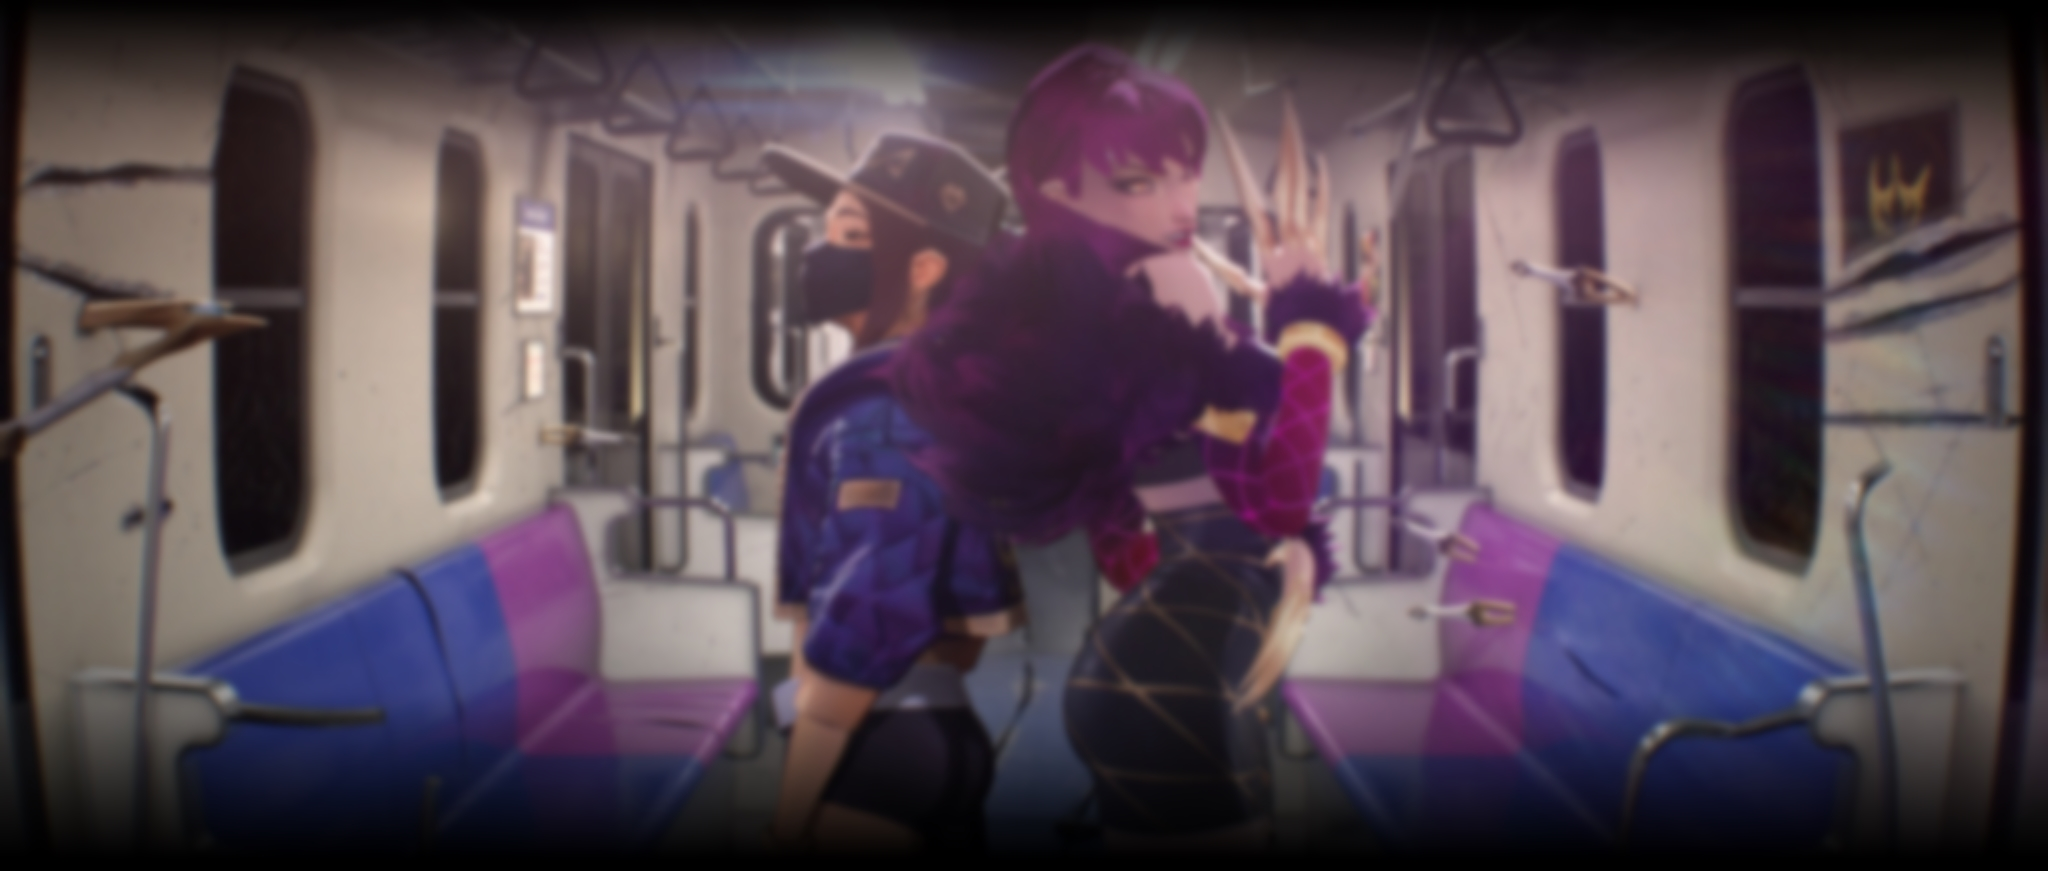
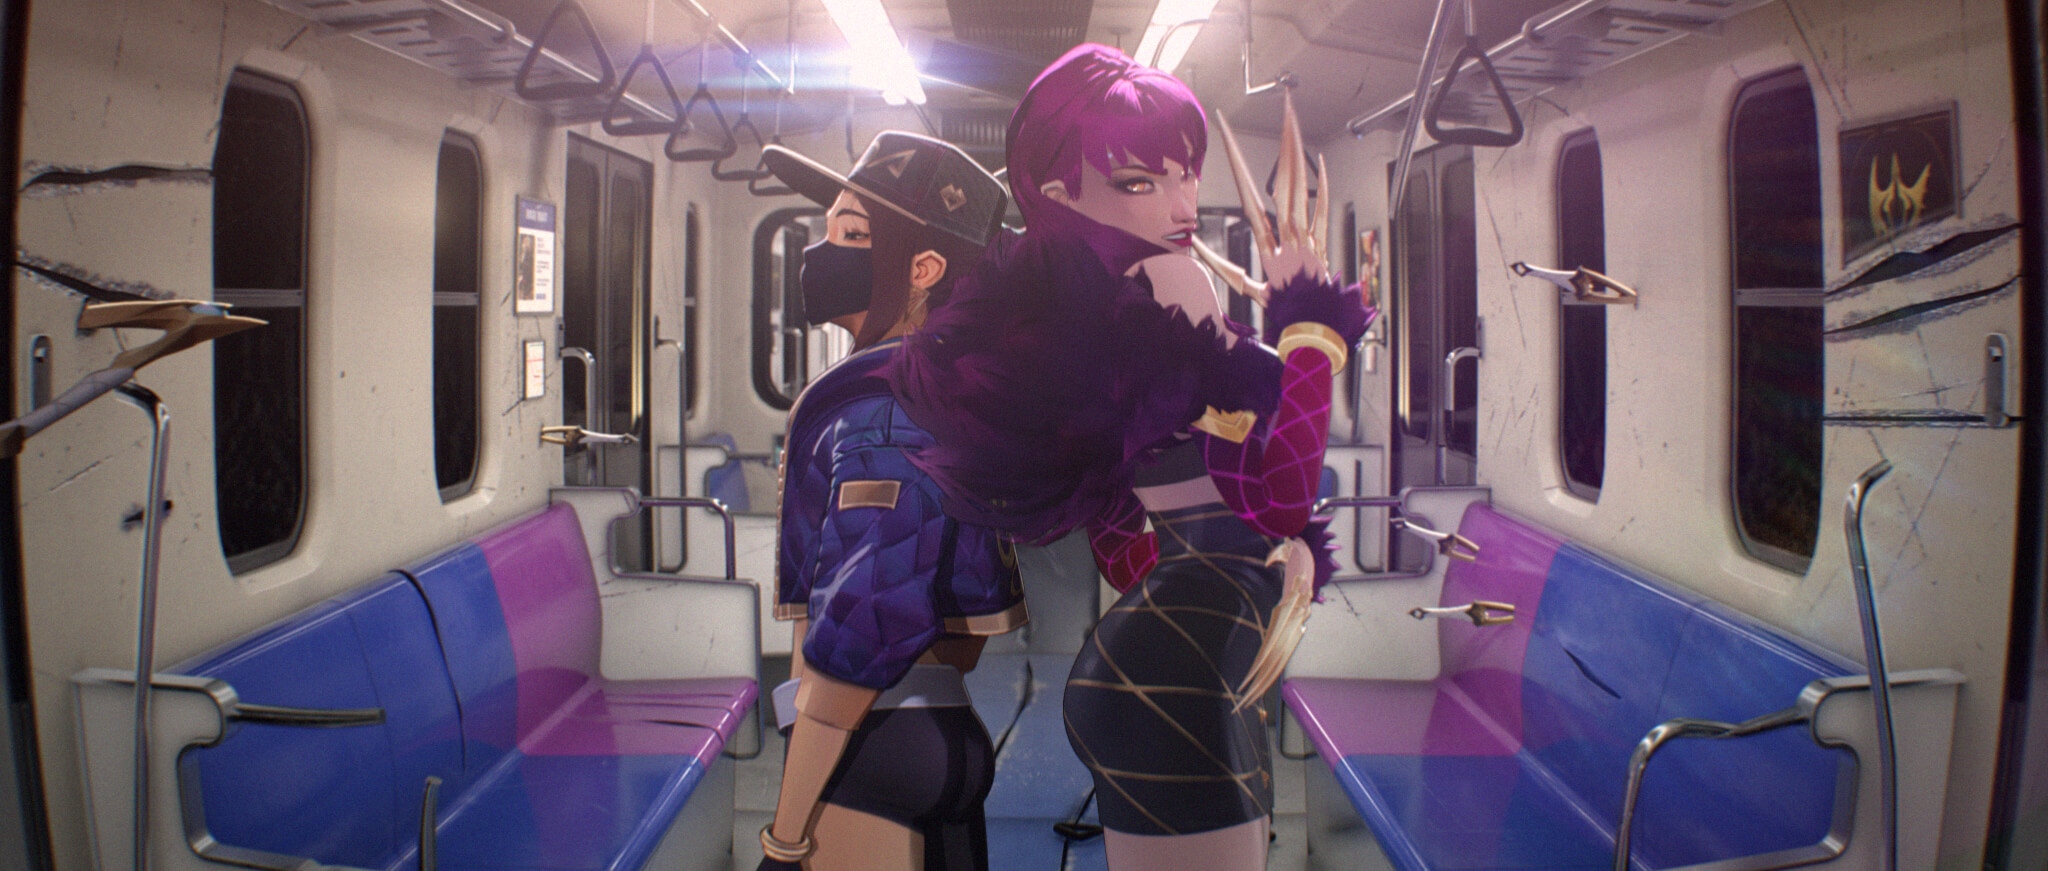
Style changes
Style
	-Made background image for quote sections more "modular", which means I can change apply affects to them dynamically, including changing the gradient fadeout in top and bottom to whatever color the background happens to have
	-Added more blur and darkened the image in quote sections to facilitate reading of text on top of it.
	-Adjusted font sizes from text in quote sections
	-Added outline to text in quote sections

Text
	-Removed quotation signs from Ahri's quote section
	-Adjusted text in Akali's section

diff --git a/styles/main.css b/styles/main.css
@@ -1,19 +1,21 @@
 @import url(https://lolstatic-a.akamaihd.net/awesomefonts/1.0.0/lol-fonts.css);
 
-body {
-
+:root {
+    --bg-color: #1a1d21;
 }
 
 body{
     font-family: Beaufort for LOL,serif;
     letter-spacing: .03em;
     color: #f0e6d2;
-    background-color: black;
+    background-color: var(--bg-color);
+    margin: 0;
 }
 body > *{
     background-color: transparent;
     font-weight: 500;
     font-size: 22px;
+    margin: 0;
 }
 
 * {
@@ -73,26 +75,71 @@ p {
 }
 
 .quoteimg{
-    max-width: initial; 
-    width:100%; 
+    object-fit: cover;
+    width: 100%;
+    height: 100%;
+    z-index: -2;
+    position: absolute;
+    filter: brightness(70%) blur(2px);
+    
+}
+
+.quoteSection{
+    padding: 0;
     height:60vw;
-    background-size: cover; 
-    position:relative; 
-    background-position: center center;
-    padding: 0 0 0 0;
+    position:relative;
+    max-width: 100%;
+    width: 100%;
+    overflow: hidden;
+}
+
+
+/*Adds the little fading black gradients at bottom and top*/
+/*The div is only rendered if it has "content" so we give it a fake one hehe*/
+
+:root{
+    --bar-size:calc(100%/4);
+}
+
+/*Bottom one*/
+.quoteSection::after{
+    background-image:linear-gradient(transparent, var(--bg-color));
+    position: absolute;
+    width: 100%;
+    height: var(--bar-size);
+    bottom: 0px;
+    z-index: -1;
+    
+    content: " "
+}
+/*Top one*/
+.quoteSection::before{
+    background-image:linear-gradient(var(--bg-color), transparent);
+    position: absolute;
+    width: 100%;
+    height: var(--bar-size);
+    z-index: -1;
+    
+    content: " "
 }
 
 .quotetext{
     text-indent: 0px;
     text-align: center;
-    padding-top: 20vw;
+    padding-top: 16vw;
     margin-bottom: 10px;
     font-size:6vw;
     color: #e79c62;
     font-weight: 700;
-    text-shadow:2px 2px 0 #444;
+    /*text-shadow:2px 2px 0 #444;*/
     padding-left:30px;
     padding-right:30px;
+    color: white;
+    text-shadow:
+    -1px -1px 0 #000,
+    1px -1px 0 #000,
+    -1px 1px 0 #000,
+    1px 1px 0 #000; 
 }
 .quotesource{
     text-align:center;
@@ -100,9 +147,15 @@ p {
     font-size: 2vw;
     text-shadow:2px 2px 0 #444;
 }
-.ahritext{
-    background: -webkit-linear-gradient( #CC46BB, #d87aca);
+
+.quoteSection.ahri> p.quotetext{
+    color: #e1d291;
+}
+
+.ahritext2{
+    /*background: -webkit-linear-gradient( #CC46BB, #e275d2);
     -webkit-background-clip: text;
     -webkit-text-fill-color: transparent;
-    text-shadow: initial;
+    text-shadow: none;*/
+    color: #e275d2;
 }

diff --git a/index.html b/index.html
@@ -16,7 +16,7 @@
 <body>
 <main>
 <article style="margin-top: 0px;">
-<section style="width: 100vw; margin-top: 0px; padding-left:0px; padding-right:0px;">
+<section class="logotop" style="width: 100vw; margin-top: 0px; padding-left:0px; padding-right:0px; max-width: 100%">
     <template>
         <div style="background-image:url('img/bg1.jpg');  background-size: cover; position: absolute; width: 100vw" class="bgimg">
     </template>
@@ -70,10 +70,11 @@
         musical groups.
     </p>
 </section>
-<section style="background-image: url(img/bg2.jpg);" class="quoteimg">
-    <p class="quotetext"><q>So keep your eyes on me now <br>
-        <span class="ahritext">[You'll like whatever you see]</span></q></p>
-    <p class="quotesource">-In the song <q>POP/STARS</q> from K/DA</p>
+<section class="quoteSection ahri">
+    <img src="img/bg2.jpg" class="quoteimg">
+    <p class="quotetext">So keep your eyes on me now <br>
+        <span class="ahritext2">[You'll like whatever you see]</span></p>
+    <p class="quotesource">-In <q>POP/STARS</q> from K/DA</p>
 </section>
 <section>
     <h3 style="text-indent: 10px;">Akali</h3>
@@ -86,7 +87,7 @@
     <p>
         With the help of Evelynn, the punk ninja literally and figuratively steals
         away the spotlight with an unmatchable rap and breathtaking visuals, leading
-        her to quickly become the <q>fans’ favorite</q>. Wearing a punk <q>rapper</q>
+        her to quickly become the fans’ favorite. Wearing a punk rapper
         outfit, using a bandana and spray cans, and having an overall smug attitude and
         pose, the high hop ninja carries an untamed style.
     </p>
@@ -96,9 +97,10 @@
         people like it.
     </p>
 </section>
-<section style="background-image: url(img/bg3.jpg);" class="quoteimg">
-    <p class="quotetext" style="color:#E497ED;size: 3em"><q>I told [Akali] to stop trying to be the most creative rap artist in Asia,
-        <b style="color: #8D3598;">and to just be it.</b></q></p>
+<section class="quoteSection">
+    <img src="img/bg3.jpg" class="quoteimg">
+    <p class="quotetext" style="color:#E497ED;size: 3em"><q>I told [Akali] to stop 
+        trying to be the most creative rap artist in Asia, <i>and to just be it.</i></q></p>
         <p class="quotesource">-Evelynn, in a post-release interview</p>
 </section>
 </article>
